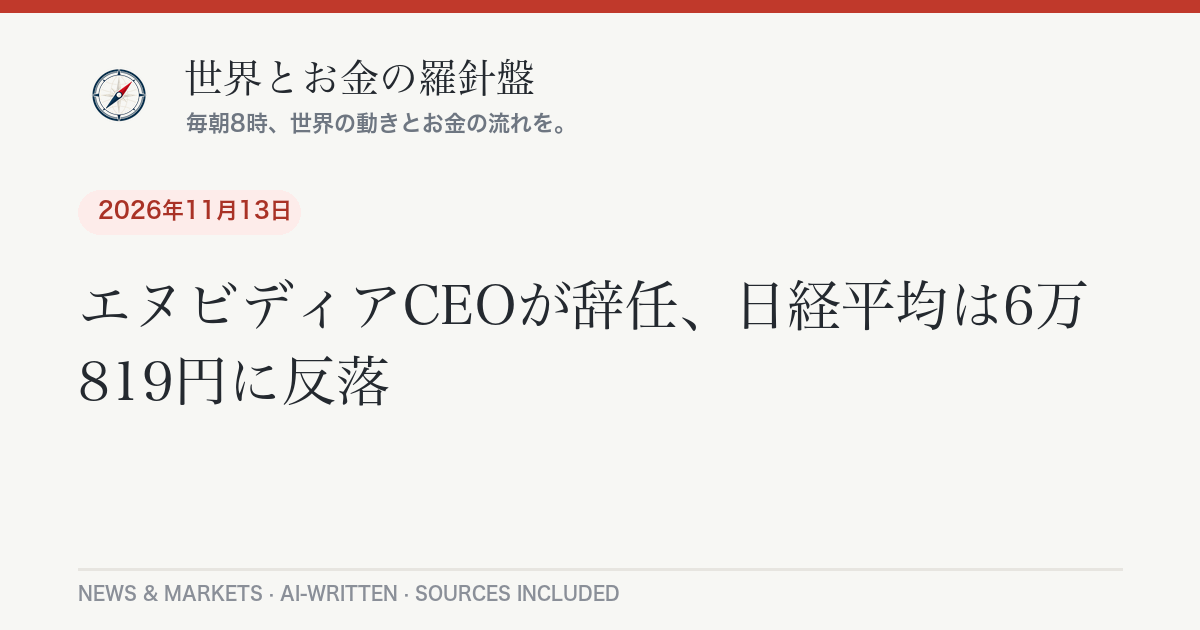
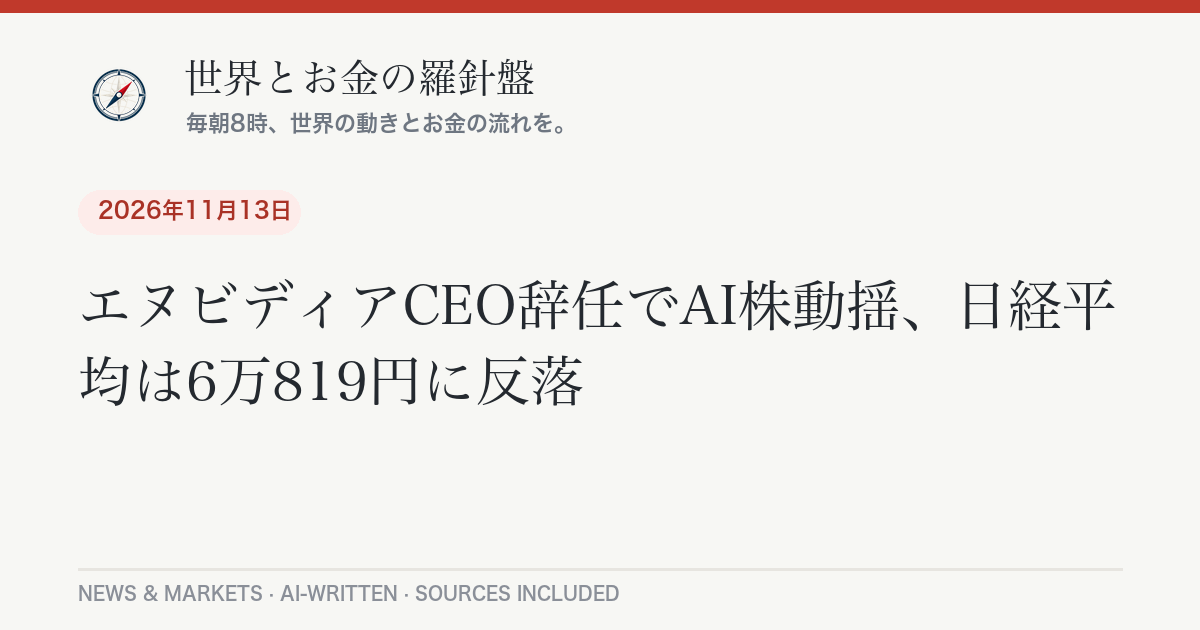
Daily briefing 2026-11-15

Changed region(s): [[0.4317, 0.4222, 0.925, 0.5429], [0.0617, 0.573, 0.4933, 0.6635]]

diff --git a/_posts/2026-11-15-daily-briefing.md b/_posts/2026-11-15-daily-briefing.md
@@ -1,0 +1,100 @@
+---
+layout: post
+lang: ja
+title: "米卸売物価が4年ぶり高水準、エヌビディアCEO辞任でハイテク株安｜11月15日のニュースとお金"
+date: 2026-11-15 07:50:00 +0900
+categories: [ニュース, 経済]
+headline: "米卸売物価が4年ぶり高水準、エヌビディアCEO辞任でハイテク株安"
+permalink: /2026/11/15/daily-briefing/
+---
+
+日曜日のため、市場データは直近の取引日である13日（金）の終値です。
+
+## 今日のポイント
+
+アメリカの卸売物価（企業間で取引されるモノやサービスの価格）が前年より[6.5%上昇](https://www.detroitnews.com/story/business/2026/11/13/producer-prices-up-at-highest-annual-rate-in-four-years-in-october/92756973007/)し、約4年ぶりの高い伸びになりました。物価の熱が冷めないなか、12月の追加利上げ観測が強まっています。さらにAI半導体大手エヌビディアのトップ辞任が重なり、米ハイテク株は重い一週間の終わりを迎えました。
+
+## 今日の羅針盤（Compass Insight）
+
+今週の相場は「物価」と「AI」という二つの不安が同時に顔を出した週でした。卸売物価の上昇は、いずれ小売価格に波及しやすい動きです。食料品の値上がりが目立つため、家計では日々の買い物の負担として先に表れる可能性があります。
+
+金利が高止まりする、あるいは上がるとなると、住宅ローンの変動金利や、金利に敏感な成長株には逆風になりえます。一方、日本では円が1ドル160円前後と安く、輸入品や光熱費の価格を押し上げやすい状況が続いています。海外の物価高と円安が重なる点は、日本の家計にとって見逃せません。
+
+短期では、来月の米利上げが実際に決まるか、その前に出る消費者物価の数字に注目です。中長期では、AIへの期待で上がってきた株価が、経営トップの交代のような「人」のリスクにどこまで耐えられるかが焦点になります。今回の動きは、特定の一社にとどまらず、AI関連全体の評価を見直す契機になるかもしれません。
+
+## 今日のニュース
+
+### 日本
+- 高市首相は、食料品の消費税減税に関する法案で、所得に応じた支援金の対象を[勤労者の5割以上とする方向で検討](https://news.web.nhk/newsweb/na/nd-20261114de75743)する考えを示しました。野党はより具体的な内容を求めています。
+- 日本政府が、APEC関連の会合に合わせて、高市首相とロシアのプーチン大統領との[会談を打診している](https://news.ksb.co.jp/ann/article/17051062)と報じられています。
+
+### 世界
+- IEA（国際エネルギー機関）は11月の月報で、原油市場が今年10〜12月期に[供給過剰へ転じる](https://www.thenationalnews.com/business/energy/2026/11/13/oil-market-to-return-to-surplus-for-first-time-since-start-of-iran-war-says-iea/)との見通しを示しました。中東の輸出が回復していることが背景です。ただし、中東情勢の軍事的な緊張は続いています。
+
+### アメリカ
+- エヌビディアのジェンスン・フアンCEOが12日に辞任を発表し、後任が決まるまでコレット・クレスCFOが[暫定CEOを務める](https://www.abc.net.au/news/2026-11-13/nvidia-founder-jensen-huang-resigns/107376470)と報じられました。辞任の理由は私的な問題をめぐる報道で、詳細は確認が取れていません。
+- 10月の卸売物価は前月比0.3%上昇、前年比6.5%上昇でした。
+
+### ヨーロッパ
+- アブダビで開かれたウクライナとロシアの和平協議は、[大規模な捕虜交換で合意](https://www.euronews.com/2026/11/11/abu-dhabi-peace-talks-end-with-prisoner-exchange-agreement-as-us-envoys-prepare-to-meet-pu)する一方、停戦や領土をめぐる突破口は開けませんでした。
+
+## 経済とお金の動き
+
+### 世界の経済と相場（13日・金曜の終値）
+
+| 指標 | 水準 | 前日比など |
+|---|---|---|
+| 日経平均株価 | 61,142.35円 | <span class="chg-up">+322.99円（+0.53%）</span> |
+| ダウ平均 | 52,347.55ドル | <span class="chg-up">+50.46ドル（+0.1%）</span> |
+| S&P500 | 7,561.67 | <span class="chg-down">-30.73（-0.4%）</span> |
+| ナスダック総合 | 25,136.27 | <span class="chg-down">-229.82（-0.9%）</span> |
+| WTI原油（12月限） | 88.56ドル/バレル | <span class="chg-down">-0.18ドル（-0.2%）</span> |
+| ドル円 | 160.00円 | 欧州中央銀行の参考レート（13日基準） |
+
+日経平均は、前日の米国市場でエヌビディアが大きく売られた流れを受けつつも、東京では半導体関連株に買い戻しが入り、[反発して引けました](https://kabutan.jp/news/marketnews/?b=n202611131287)。一時は1,000円超上昇しましたが、6万2,000円が近づくと戻り売りに押されています。
+
+アメリカでは、ダウだけが小幅に上昇し、S&P500とナスダックは[下落](https://www.washingtonpost.com/business/2026/11/13/wall-street-stocks-dow-nasdaq/f15a10e2-dfa7-11f1-912c-4fbb80d73f7f_story.html)しました。ただし週間では、S&P500が約2.5%、ナスダックが約2.3%上昇し、いずれも5週ぶりの週間上昇です。
+
+原油は、IEAが供給過剰への転換を示したことなどから[小幅に反落](https://www.oanda.jp/lab-education/market_news/kn_2026111401000186/)しました。為替は[ドル円が160円](https://api.frankfurter.app/latest?from=USD&to=JPY)です。
+
+### アメリカの経済
+
+10月の卸売物価は前月比0.3%の上昇で、市場予想の0.4%をやや下回りました。しかし前年比は6.5%と、2022年11月以来の高い伸びです。[食料品の上昇](https://journalarta.com/en/2026/11/14/ppi-report-october-2026-wholesale-inflation-6-5-percent/)が目立ちました。
+
+この結果を受け、市場では12月に0.25%の利上げが行われるとの見方が優勢で、CMEの観測では[その確率は約9割](https://www.tokenpost.com/news/investing/56743)とされています。現在の政策金利は3.75〜4.00%です。
+
+### 日本の経済
+
+日経平均は6万円台を維持しています。円安が160円台で続くことは、輸出企業には追い風ですが、輸入物価を通じて家計の負担にもなります。来週は、米国の物価と金利の見通しが円相場にどう響くかが注目点です。
+
+## 今日の注目銘柄・セクター
+
+- **エヌビディア（米）**: CEO辞任の発表を受けて、12日の取引中は大きく下げ、終値は約4%安でした。13日も続落し、時価総額が約1年4か月ぶりに[4兆ドルを下回りました](https://www.cnbc.com/2026/11/13/nvidia-nvda-stock-jensen-huang-transition.html)。AI関連株全体の先行きを占う存在として、動向が注目されています。
+- **アドバンテスト・東京エレクトロン（日）**: 前日の米国での半導体株安を受けて売られた後、13日の東京市場では買い戻しが入りました。半導体製造・検査装置の代表格として、AI関連の評価に左右されやすい銘柄です。
+- **サービス業・小売業（日）**: 13日の東京市場で上昇が目立ったセクターです。
+
+*※特定銘柄の売買を推奨するものではありません。投資判断はご自身の責任で。*
+
+## まとめ：注目の3つ
+
+1. アメリカの卸売物価が前年比6.5%と約4年ぶりの高水準になり、12月の追加利上げ観測が強まった。
+2. エヌビディアのCEO辞任でAI・ハイテク株が揺れた。ただし週間ではS&P500とナスダックは5週ぶりに上昇した。
+3. IEAは原油の供給過剰を見込む一方、中東情勢の緊張は続いている。
+
+---
+<div class="post-sources" markdown="1">
+
+**出典：**
+- [Detroit News: 米卸売物価、4年ぶりの高い年間上昇率](https://www.detroitnews.com/story/business/2026/11/13/producer-prices-up-at-highest-annual-rate-in-four-years-in-october/92756973007/)
+- [Washington Post: 13日の米主要株価指数](https://www.washingtonpost.com/business/2026/11/13/wall-street-stocks-dow-nasdaq/f15a10e2-dfa7-11f1-912c-4fbb80d73f7f_story.html)
+- [株探: 日経平均 大引け（11月13日）](https://kabutan.jp/news/marketnews/?b=n202611131287)
+- [ABC News: エヌビディアのフアンCEOが辞任](https://www.abc.net.au/news/2026-11-13/nvidia-founder-jensen-huang-resigns/107376470)
+- [CNBC: エヌビディアの時価総額が4兆ドルを下回る](https://www.cnbc.com/2026/11/13/nvidia-nvda-stock-jensen-huang-transition.html)
+- [The National: IEA、原油市場は供給過剰へ](https://www.thenationalnews.com/business/energy/2026/11/13/oil-market-to-return-to-surplus-for-first-time-since-start-of-iran-war-says-iea/)
+- [Euronews: アブダビ和平協議は捕虜交換で合意](https://www.euronews.com/2026/11/11/abu-dhabi-peace-talks-end-with-prisoner-exchange-agreement-as-us-envoys-prepare-to-meet-pu)
+- [NHK: 消費税減税関連法案をめぐる首相発言](https://news.web.nhk/newsweb/na/nd-20261114de75743)
+- 市場データ: [frankfurter API](https://api.frankfurter.app/) ／ [OANDA マーケットニュース（NY原油終値）](https://www.oanda.jp/lab-education/market_news/kn_2026111401000186/) ほか
+
+*本記事は公開情報をもとに作成しています。*
+
+</div>

diff --git a/_posts/2026-11-15-daily-briefing-en.md b/_posts/2026-11-15-daily-briefing-en.md
@@ -1,0 +1,52 @@
+---
+layout: post
+lang: en
+title: "U.S. Wholesale Inflation Hits a Four-Year High as Nvidia CEO Exit Rattles Tech — November 15, 2026"
+date: 2026-11-15 07:50:00 +0900
+headline: "U.S. Wholesale Inflation Hits a Four-Year High as Nvidia CEO Exit Rattles Tech"
+permalink: /2026/11/15/daily-briefing/
+---
+
+*Today is Sunday, so market figures are from Friday's close, November 13.*
+
+## Top U.S. Stories
+
+- U.S. producer prices rose 0.3% in October, a touch below the 0.4% economists expected, but the annual rate [hit 6.5%](https://www.detroitnews.com/story/business/2026/11/13/producer-prices-up-at-highest-annual-rate-in-four-years-in-october/92756973007/), the fastest since late 2022.
+  *Why it matters:* Prices businesses pay tend to filter through to shoppers, and food costs were a standout. Markets now see a quarter-point Fed hike in December as [very likely](https://www.tokenpost.com/news/investing/56743), which keeps borrowing costs elevated.
+- Nvidia CEO Jensen Huang [resigned](https://www.abc.net.au/news/2026-11-13/nvidia-founder-jensen-huang-resigns/107376470) on Thursday; CFO Colette Kress was named interim chief. Reports tie the exit to personal conduct, and the details remain unconfirmed.
+  *Why it matters:* Nvidia is the bellwether of the AI trade. Its shares closed more than 4% lower Thursday and fell again Friday, pushing its market value [below $4 trillion](https://www.cnbc.com/2026/11/13/nvidia-nvda-stock-jensen-huang-transition.html) for the first time since July 2025.
+- The IEA says the oil market should swing into [surplus](https://www.thenationalnews.com/business/energy/2026/11/13/oil-market-to-return-to-surplus-for-first-time-since-start-of-iran-war-says-iea/) in the fourth quarter as Gulf exports recover, though Middle East security risks persist.
+  *Why it matters:* A surplus could ease pressure on fuel prices, but any new disruption in the Gulf could quickly reverse that.
+- Ukraine–Russia talks in Abu Dhabi ended with a [prisoner-exchange agreement](https://www.euronews.com/2026/11/11/abu-dhabi-peace-talks-end-with-prisoner-exchange-agreement-as-us-envoys-prepare-to-meet-pu) but no breakthrough on a ceasefire or territory.
+
+## Compass Insight
+
+This week's market carried two worries at once: sticky inflation and AI jitters. A 6.5% annual rise in producer prices is the kind of number that eventually shows up at the checkout, and it keeps the Fed on a tightening path, which is a headwind for rate-sensitive assets such as growth stocks and floating-rate mortgages.
+
+At the same time, the Nvidia leadership shock is a reminder that an AI-driven rally rests partly on confidence in a few people and companies. Even so, the S&P 500 and Nasdaq still finished the week higher. In the short term, watch the next consumer-price reading and the Fed's December decision. Over the longer run, the question is whether AI valuations can absorb governance surprises without a broader reassessment.
+
+## Markets
+
+Friday's close: the [Dow rose 0.1% to 52,347.55](https://www.washingtonpost.com/business/2026/11/13/wall-street-stocks-dow-nasdaq/f15a10e2-dfa7-11f1-912c-4fbb80d73f7f_story.html), while the S&P 500 fell 0.4% to 7,561.67 and the Nasdaq slid 0.9% to 25,136.27. For the week, the S&P 500 gained about 2.5% and the Nasdaq about 2.3%. In Tokyo, the Nikkei rose 322.99 points, or 0.53%, to [61,142.35](https://kabutan.jp/news/marketnews/?b=n202611131287). WTI crude eased [0.2% to about $88.56](https://www.oanda.jp/lab-education/market_news/kn_2026111401000186/) a barrel, and the dollar was at [160.00 yen](https://api.frankfurter.app/latest?from=USD&to=JPY) (ECB reference rate, Nov. 13).
+
+## Stocks in Focus
+
+- **Nvidia:** Down sharply on the CEO's exit; market value slipped under $4 trillion.
+- **Advantest and Tokyo Electron (Japan):** Chip-equipment names saw dip-buying in Tokyo after the prior day's sell-off.
+
+*Not a recommendation to buy or sell any security.*
+
+<div class="post-sources" markdown="1">
+
+**Sources:**
+- [Detroit News: Producer prices at highest annual rate in four years](https://www.detroitnews.com/story/business/2026/11/13/producer-prices-up-at-highest-annual-rate-in-four-years-in-october/92756973007/)
+- [Washington Post: How major US stock indexes fared Friday](https://www.washingtonpost.com/business/2026/11/13/wall-street-stocks-dow-nasdaq/f15a10e2-dfa7-11f1-912c-4fbb80d73f7f_story.html)
+- [ABC News: Nvidia founder Jensen Huang resigns](https://www.abc.net.au/news/2026-11-13/nvidia-founder-jensen-huang-resigns/107376470)
+- [CNBC: Nvidia closes below $4T market cap](https://www.cnbc.com/2026/11/13/nvidia-nvda-stock-jensen-huang-transition.html)
+- [The National: IEA sees oil surplus](https://www.thenationalnews.com/business/energy/2026/11/13/oil-market-to-return-to-surplus-for-first-time-since-start-of-iran-war-says-iea/)
+- [Euronews: Abu Dhabi talks end with prisoner exchange](https://www.euronews.com/2026/11/11/abu-dhabi-peace-talks-end-with-prisoner-exchange-agreement-as-us-envoys-prepare-to-meet-pu)
+- Market data: [frankfurter API](https://api.frankfurter.app/), [Kabutan](https://kabutan.jp/news/marketnews/?b=n202611131287)
+
+</div>
+
+*Auto-generated and AI-written. Not investment advice.*
